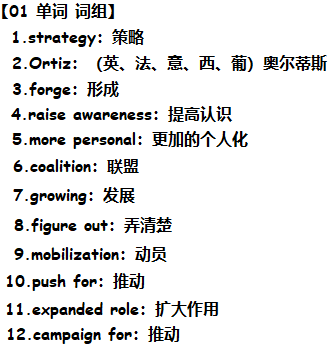
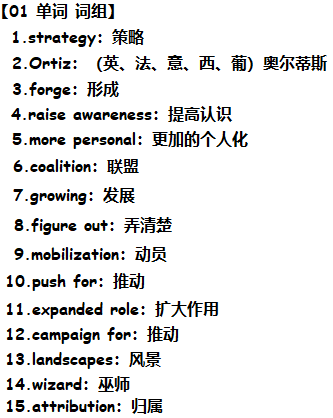
251109 D38

Changed region(s): [[0.0, 0.0, 0.7576, 1.0], [0.697, 0.1149, 1.0, 0.2299]]

diff --git a/01 真题/01 24 50’ = 10’ + 40‘/02 阅读理解 40‘ = 20 × 2‘  T21-40/03 Text 3 10' = 5 × 2’  T31-35 ×/01 251108 D39/02 Doc.md b/01 真题/01 24 50’ = 10’ + 40‘/02 阅读理解 40‘ = 20 × 2‘  T21-40/03 Text 3 10' = 5 × 2’  T31-35 ×/01 251108 D39/02 Doc.md
@@ -6,7 +6,7 @@
 
 # 02 单词 词组
 
-<img src="https://cvp.oss-cn-shanghai.aliyuncs.com/202511011020205.png" alt="image-20251101102032101" style="zoom:50%;" />
+<img src="https://cvp.oss-cn-shanghai.aliyuncs.com/202511081904318.png" style="zoom:50%;" />
 
 
 
